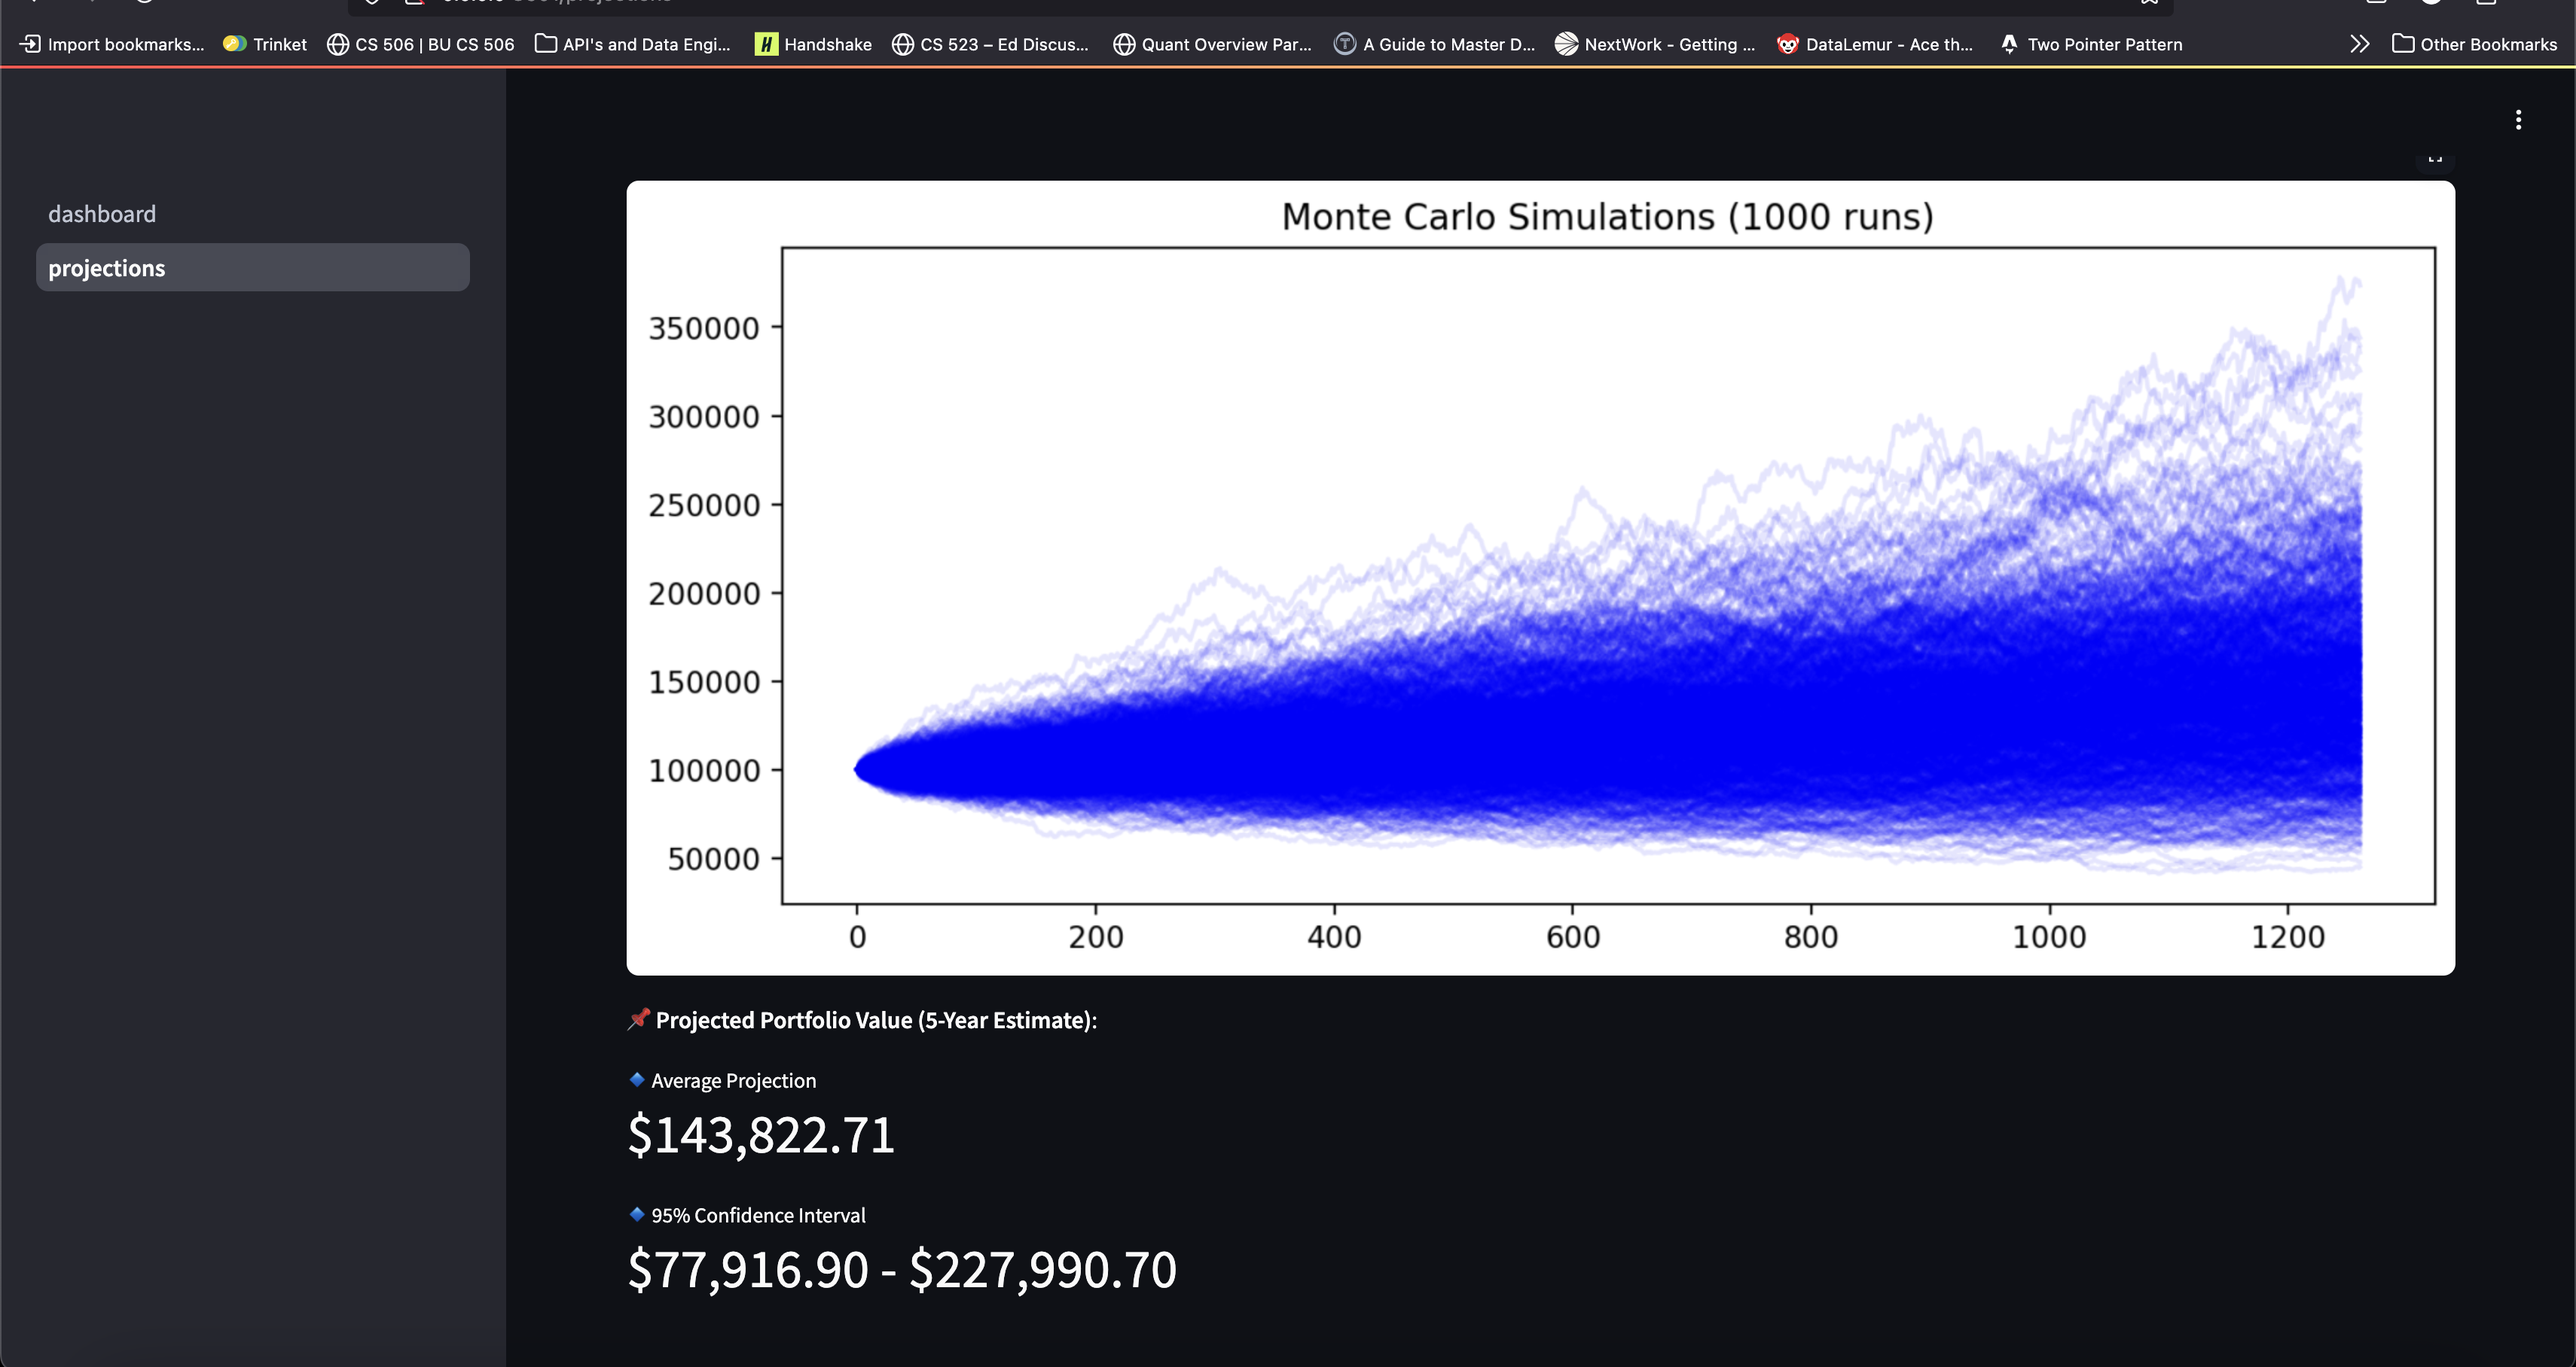
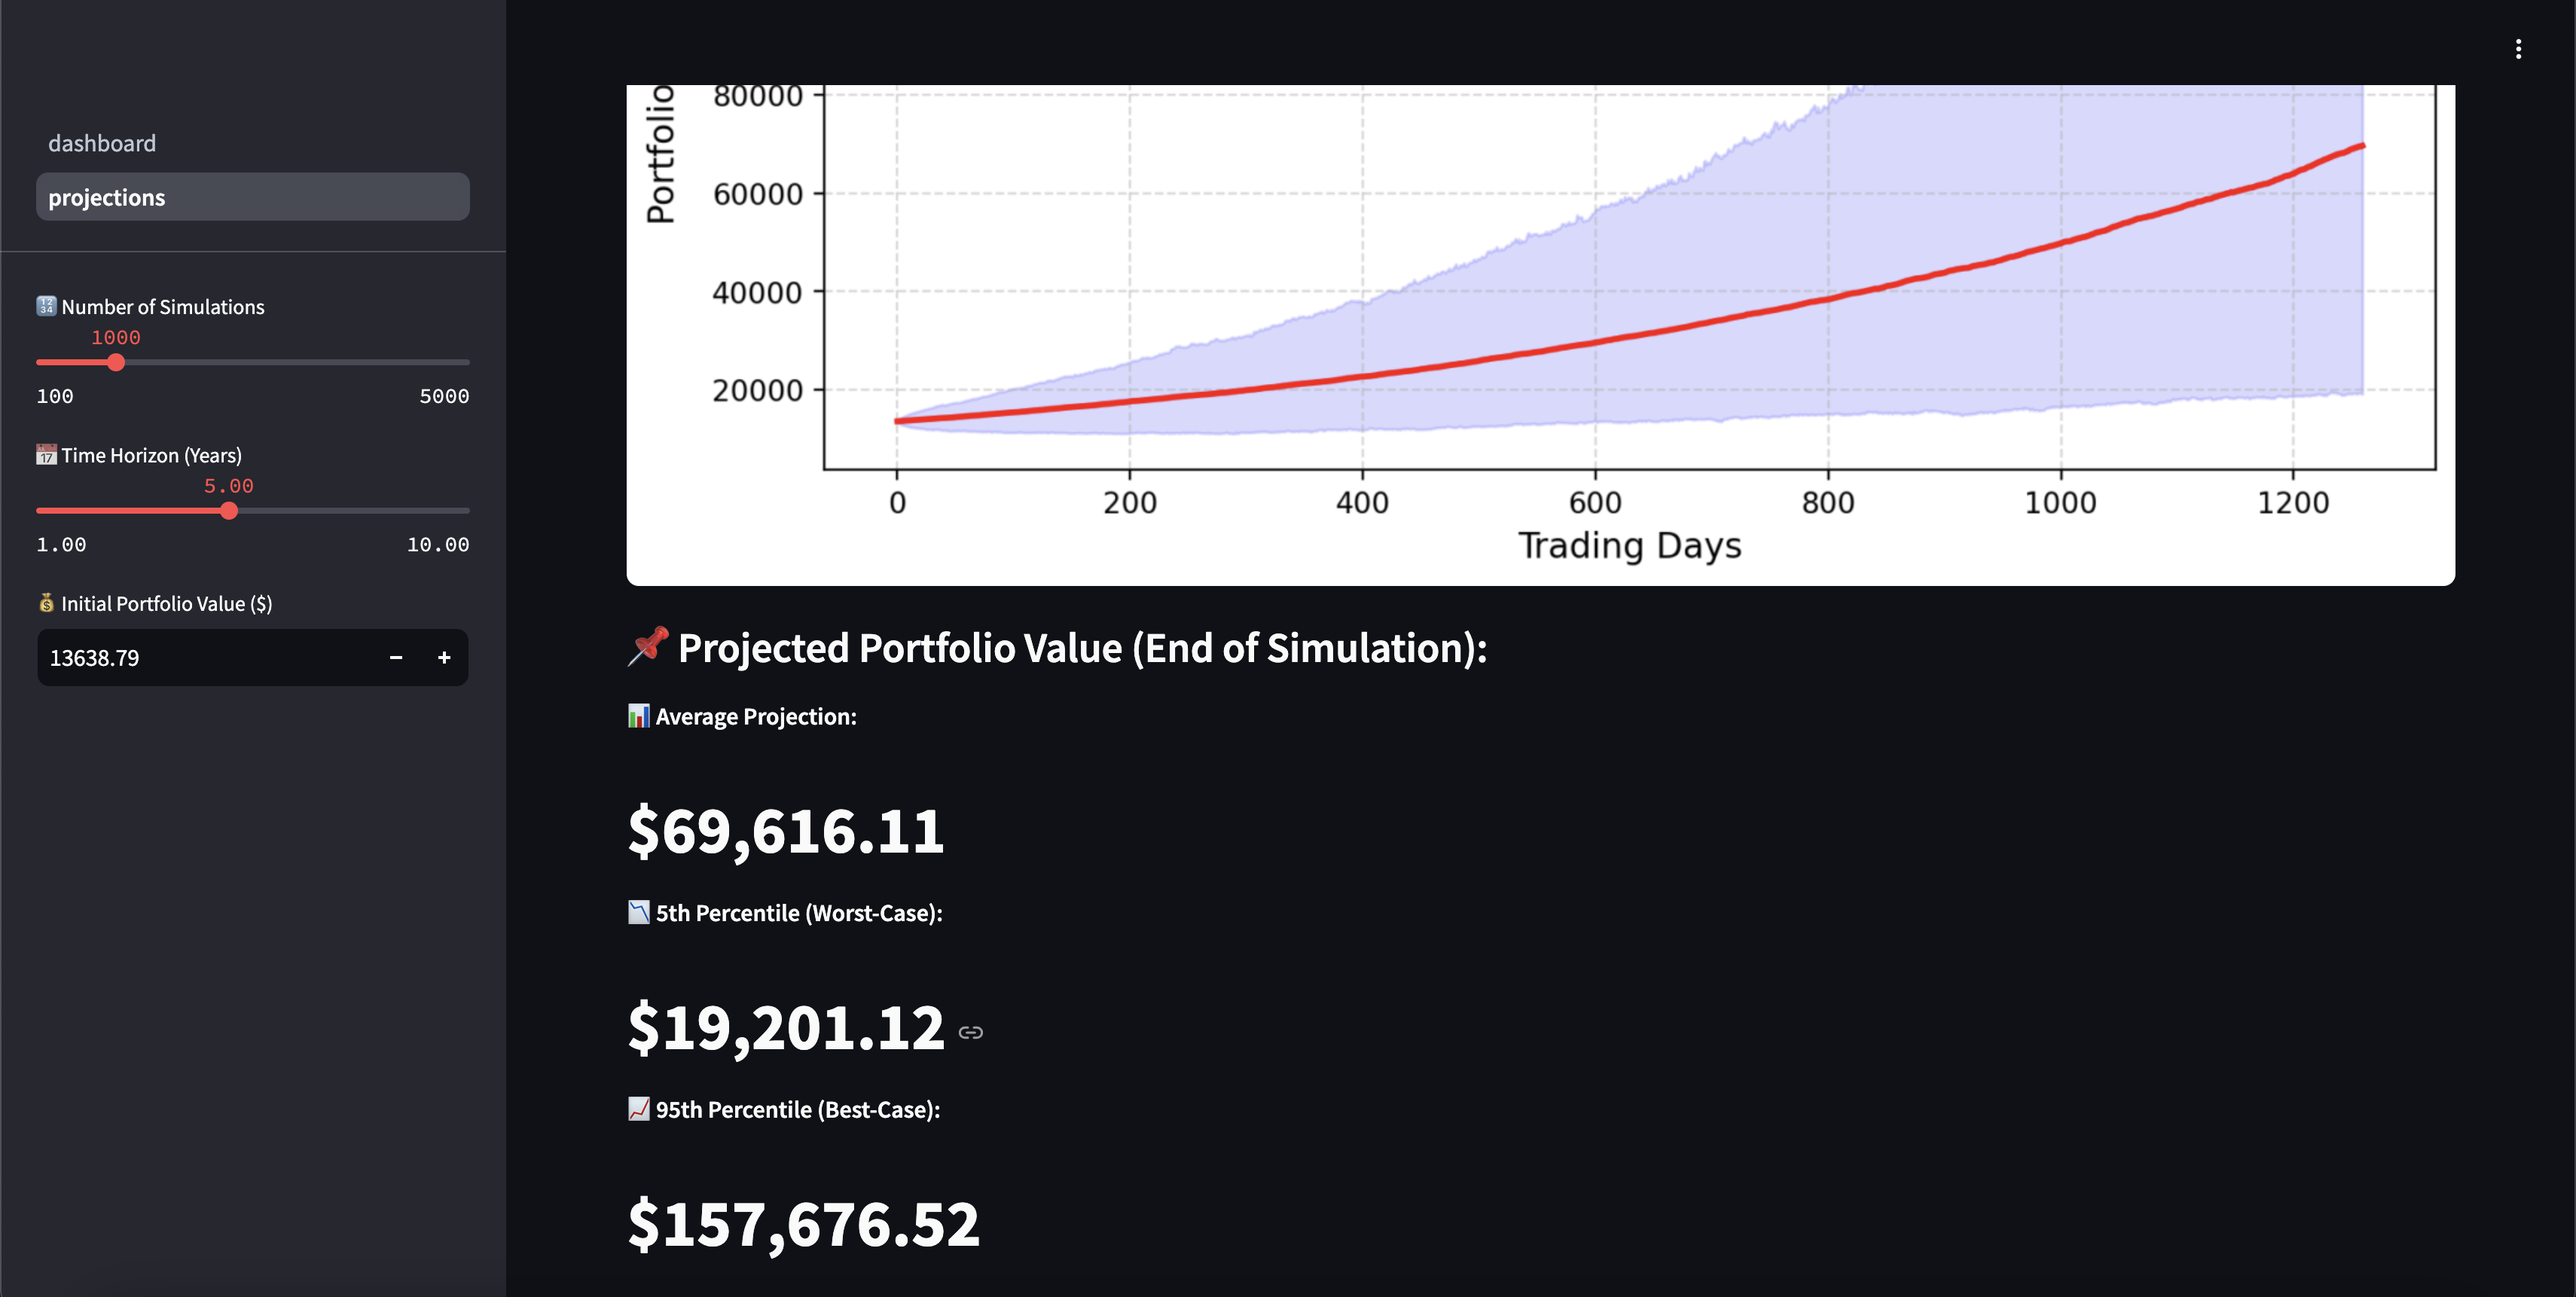
updated projections- and added refresh button to dashboard

diff --git a/frontend/dashboard.py b/frontend/dashboard.py
@@ -3,15 +3,15 @@ import pandas as pd
 import yfinance as yf
 import plotly.express as px
 
-# 🎨 Set Page Config
+# 🎨 **Page Configuration**
 st.set_page_config(page_title="📈 Quant Portfolio Dashboard", layout="wide")
 
-# 📌 Sidebar
+# 📌 **Sidebar Logo & Title**
 st.sidebar.image("frontend/assets/logo.png", width=100)
 st.sidebar.title("📊 Portfolio Manager")
 st.sidebar.write("Track, analyze, and optimize your investments.")
 
-# 🔹 List of Top 50 Tech Stocks (Ticker + Company Name)
+# 🔹 **List of Top 50 Tech Stocks (Ticker + Company Name)**
 TECH_STOCKS = {
     "AAPL": "Apple", "MSFT": "Microsoft", "GOOGL": "Alphabet", "AMZN": "Amazon", "NVDA": "Nvidia",
     "META": "Meta Platforms", "TSLA": "Tesla", "ADBE": "Adobe", "CRM": "Salesforce", "AMD": "Advanced Micro Devices",
@@ -26,61 +26,80 @@ TECH_STOCKS = {
     "WDAY": "Workday", "SNAP": "Snap Inc."
 }
 
-# ✅ Ensure portfolio session state exists
+# ✅ **Ensure Session State for Portfolio**
 if "portfolio" not in st.session_state:
     st.session_state.portfolio = {}
 
-# 🔹 User Portfolio Input
+if "prices" not in st.session_state:
+    st.session_state.prices = {}
+
+# 🔹 **User Portfolio Input (Stock Selection & Quantity)**
 st.sidebar.subheader("📌 Add Your Stocks")
-selected_ticker = st.sidebar.selectbox("Select a Tech Stock:", list(TECH_STOCKS.keys()), format_func=lambda x: f"{x} ({TECH_STOCKS[x]})")
+selected_ticker = st.sidebar.selectbox(
+    "Select a Tech Stock:", list(TECH_STOCKS.keys()), format_func=lambda x: f"{x} ({TECH_STOCKS[x]})"
+)
 quantity = st.sidebar.number_input("Enter Quantity", min_value=1, step=1)
 
-if st.sidebar.button("Add to Portfolio"):
+if st.sidebar.button("➕ Add to Portfolio"):
     if selected_ticker in st.session_state.portfolio:
-        st.session_state.portfolio[selected_ticker] += quantity  # ✅ Add to existing quantity
+        st.session_state.portfolio[selected_ticker] += quantity
     else:
-        st.session_state.portfolio[selected_ticker] = quantity  # ✅ Add new stock
+        st.session_state.portfolio[selected_ticker] = quantity
+    st.rerun()  # ✅ Instantly updates the UI with new stock
 
-# 🔹 Portfolio Summary Section
+# ✅ **Function to Fetch Live Stock Prices**
+def fetch_prices():
+    prices = {}
+    for stock in st.session_state.portfolio.keys():
+        stock_data = yf.Ticker(stock).history(period="1d")
+        prices[stock] = stock_data["Close"].iloc[-1] if not stock_data.empty else None
+    return prices
+
+# 🔹 **Portfolio Summary Section**
 st.header("📊 Portfolio Overview")
 
 if st.session_state.portfolio:
     portfolio_df = pd.DataFrame({"Stock": st.session_state.portfolio.keys(), "Shares": st.session_state.portfolio.values()})
 
-    # Fetch live stock prices with error handling
-    prices = {}
-    for stock in portfolio_df["Stock"]:
-        stock_data = yf.Ticker(stock).history(period="1d")
-        prices[stock] = stock_data["Close"].iloc[-1] if not stock_data.empty else None
+    # ✅ Fetch or Use Stored Prices
+    if not st.session_state.prices:
+        st.session_state.prices = fetch_prices()
 
-    portfolio_df["Price"] = portfolio_df["Stock"].map(prices)
+    portfolio_df["Price"] = portfolio_df["Stock"].map(st.session_state.prices)
     portfolio_df["Total Value"] = portfolio_df["Shares"] * portfolio_df["Price"]
 
-    # 🚀 Show Total Portfolio Value on Top
+    # 🚀 **Show Total Portfolio Value on Top**
     total_value = portfolio_df["Total Value"].sum(skipna=True)
-    st.metric(label="💰 Total Portfolio Value", value=f"${total_value:,.2f}")
 
-    # ✅ Store total portfolio value in session state for projections page
+    col1, col2 = st.columns([3, 1])
+    col1.metric(label="💰 Total Portfolio Value", value=f"${total_value:,.2f}")
+
+    # ✅ **Refresh Button with Proper Function Call**
+    if col2.button("🔄 Refresh Prices", key="refresh_prices_button"):
+        st.session_state.prices = fetch_prices()
+        st.rerun()  # ✅ UI instantly refreshes with new prices
+
+    # ✅ **Store Portfolio Value for Projections Page**
     st.session_state["portfolio_value"] = total_value
 
-    # Display Portfolio Table
+    # 📊 **Display Portfolio Table**
     st.dataframe(portfolio_df.style.format({"Price": "${:.2f}", "Total Value": "${:.2f}"}))
 
-    # 📊 Portfolio Allocation Pie Chart
+    # 📊 **Portfolio Allocation Pie Chart**
     fig = px.pie(portfolio_df, names="Stock", values="Total Value", title="Portfolio Allocation")
     st.plotly_chart(fig)
 
-    # 🔹 Show Portfolio Value in Sidebar
+    # 🔹 **Show Portfolio Value in Sidebar**
     st.sidebar.write(f"💰 **Total Portfolio Value:** ${total_value:,.2f}")
 
-    # 🚨 Show warning if any stock data is missing
-    missing_stocks = [stock for stock, price in prices.items() if price is None]
+    # 🚨 **Warning for Missing Prices**
+    missing_stocks = [stock for stock, price in st.session_state.prices.items() if price is None]
     if missing_stocks:
-        st.sidebar.warning(f"⚠ No price data for: {', '.join(missing_stocks)}. Prices not available.")
+        st.sidebar.warning(f"⚠ No price data for: {', '.join(missing_stocks)}.")
 
 else:
-    st.warning("Add stocks to your portfolio to see data.")
+    st.warning("📌 Add stocks to your portfolio to see data.")
 
-# 🔹 Navigation to Projections Page
+# 🔹 **Navigation to Projections Page**
 if st.button("📈 Go to Projections"):
     st.switch_page("pages/projections.py")

diff --git a/frontend/pages/projections.py b/frontend/pages/projections.py
@@ -1,65 +1,89 @@
 import numpy as np
 import matplotlib.pyplot as plt
 import streamlit as st
+import yfinance as yf
 
-# 🎯 **Streamlit UI - User Inputs**
 st.title("📈 Monte Carlo Portfolio Projections")
 
-# Sliders for user-defined parameters
+# ✅ Get Portfolio from Session State
+if "portfolio" not in st.session_state or not st.session_state.portfolio:
+    st.error("⚠ No portfolio found! Please add stocks in the dashboard.")
+    st.stop()
+
+portfolio_tickers = list(st.session_state.portfolio.keys())
+weights = np.array([shares for shares in st.session_state.portfolio.values()])
+
+# ✅ Normalize Weights
+weights = weights / np.sum(weights)
+
+# ✅ Fetch Stock Data
+def get_historical_returns(tickers, period="5y"):
+    try:
+        data = yf.download(tickers, period=period)
+        
+        # ✅ Check if 'Adj Close' exists, else use 'Close'
+        if "Adj Close" in data.columns:
+            prices = data["Adj Close"]
+        elif "Close" in data.columns:
+            prices = data["Close"]
+        else:
+            st.error("⚠ No valid price data found. Check the tickers.")
+            return None
+
+        returns = prices.pct_change().dropna()  # ✅ Daily Returns
+        return returns
+
+    except Exception as e:
+        st.error(f"⚠ Error fetching stock data: {str(e)}")
+        return None
+
+returns = get_historical_returns(portfolio_tickers)
+
+if returns is None:
+    st.stop()  # 🚨 Stop execution if no valid data
+
+# ✅ Compute Portfolio Return
+portfolio_return = returns.dot(weights)
+
+# 🎯 **User Inputs for Simulation**
 num_simulations = st.sidebar.slider("🔢 Number of Simulations", 100, 5000, 1000, step=100)
+years = st.sidebar.slider("📅 Time Horizon (Years)", 1.0, 10.0, 5.0, step=0.5)
+time_horizon = int(years * 252)
 
-# Convert years to trading days (1 year = 252 trading days)
-years = st.sidebar.slider("📅 Time Horizon (Years)", 1.0, 10.0, 5.0, step=0.5)  # 1 to 10 years
-time_horizon = int(years * 252)  # Convert selected years to days
-
-# Get initial portfolio value from session state (default: 100000)
 initial_portfolio_value = st.sidebar.number_input(
     "💰 Initial Portfolio Value ($)",
-    value=float(st.session_state.get("portfolio_value", 100000.0)),  # Ensure float value
-    step=5000.0  # Ensure float step to avoid errors
+    value=float(st.session_state.get("portfolio_value", 100000.0)), 
+    step=5000.0
 )
 
-# User-defined market assumptions
-expected_annual_return = st.sidebar.slider("📈 Expected Annual Return (%)", -10.0, 30.0, 8.0, step=0.5) / 100
-annual_volatility = st.sidebar.slider("📊 Annual Volatility (%)", 5.0, 50.0, 20.0, step=0.5) / 100
-
-# Convert to daily return values
-mean_return = expected_annual_return / 252  # Convert annual return to daily return
-volatility = annual_volatility / np.sqrt(252)  # Convert annual volatility to daily volatility
-
-# 🧠 **Simulating Monte Carlo projections**
+# ✅ Monte Carlo Simulation
 np.random.seed(42)
 simulations = np.zeros((num_simulations, time_horizon))
 simulations[:, 0] = initial_portfolio_value
 
 for i in range(1, time_horizon):
-    simulations[:, i] = simulations[:, i-1] * (1 + np.random.normal(mean_return, volatility, num_simulations))
+    daily_return = np.random.choice(portfolio_return, size=num_simulations)  # Sample historical returns
+    simulations[:, i] = simulations[:, i-1] * (1 + daily_return)
 
-# 📊 **Compute Statistics**
+# 📊 Compute Statistics
 avg_projection = simulations.mean(axis=0)
-min_projection = np.percentile(simulations, 5, axis=0)  # 5th percentile (worst-case)
-max_projection = np.percentile(simulations, 95, axis=0)  # 95th percentile (best-case)
+min_projection = np.percentile(simulations, 5, axis=0)
+max_projection = np.percentile(simulations, 95, axis=0)
 
-# 🎨 **Plot the Monte Carlo Projections**
+# 🎨 Plot Monte Carlo Projections
 fig, ax = plt.subplots(figsize=(10, 5))
-
-# Plot min-max range as a shaded area
 ax.fill_between(range(time_horizon), min_projection, max_projection, color='blue', alpha=0.15, label="90% Confidence Interval")
-
-# Plot the main trend line (average projection)
 ax.plot(avg_projection, color='red', linewidth=2, label="Projected Growth")
 
-# Formatting the graph
 ax.set_title("Monte Carlo Portfolio Simulations", fontsize=14)
 ax.set_xlabel("Trading Days", fontsize=12)
 ax.set_ylabel("Portfolio Value ($)", fontsize=12)
 ax.legend()
 ax.grid(True, linestyle='--', alpha=0.5)
 
-# Display the plot
 st.pyplot(fig)
 
-# 📌 **Display Summary Statistics**
+# 📌 Summary Stats
 st.markdown("### 📌 Projected Portfolio Value (End of Simulation):")
 st.markdown(f"**📊 Average Projection:**\n# ${avg_projection[-1]:,.2f}")
 st.markdown(f"**📉 5th Percentile (Worst-Case):**\n# ${min_projection[-1]:,.2f}")
